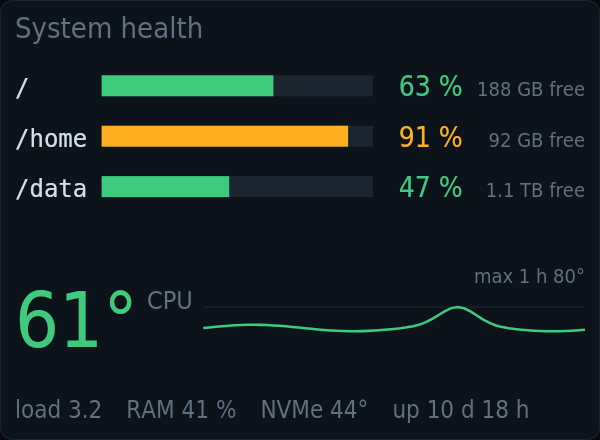
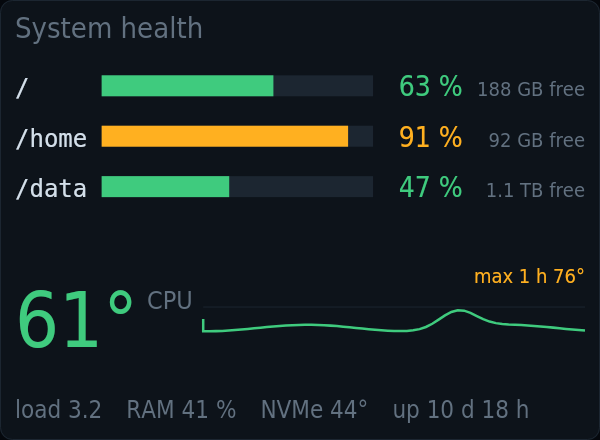
feat: more to configure, following Kiosko's option conventions
system/health: amber and red temperatures (tempWarn/tempAlert), historyMs, disk rows with '+N more' instead of stopping at four; takeOver is the common switch. Durations through ctx.fmt.

Also regenerates the README option tables and screenshots.

Changed region(s): [[0.33, 0.6795, 0.78, 0.7682], [0.78, 0.7091, 0.96, 0.7682], [0.78, 0.5909, 0.96, 0.65]]

diff --git a/src/health.ts b/src/health.ts
@@ -1,15 +1,15 @@
 /**
  * System health: how full the disks are, the CPU temperature (with its last
- * hour as a line, because peaks can't be seen at a glance), load, memory,
- * uptime and failed systemd units. Inspired by MMM-SystemStats; everything
- * comes from the machine itself, no network.
+ * hour, or `historyMs`, as a line, because peaks can't be seen at a glance),
+ * load, memory, uptime and failed systemd units. Inspired by MMM-SystemStats;
+ * everything comes from the machine itself, no network.
  */
 import { execFile } from 'node:child_process';
 import { readFile } from 'node:fs/promises';
 import { availableParallelism, loadavg, platform, uptime } from 'node:os';
 import { promisify } from 'node:util';
-import { defineWidget, t, type Localized } from '@kiosko/sdk';
-import { bytes, readDisk, readHwmon, readMemory, readThermalZone, since, SYSTEM_ROOT } from './sensors.ts';
+import { defineWidget, drawMore, listLayout, listOptions, t, type Localized } from '@kiosko/sdk';
+import { bytes, readDisk, readHwmon, readMemory, readThermalZone, SYSTEM_ROOT } from './sensors.ts';
 
 const run = promisify(execFile);
 
@@ -25,7 +25,7 @@ export interface Health {
   cpu: { temp: number; crit: number | null } | null;
   /** The hottest NVMe drive. */
   nvme: number | null;
-  /** Temperatures of the last hour: [instant, degrees]. */
+  /** Temperatures of the last `historyMs`: [instant, degrees]. */
   history: [number, number][];
   /** 1-minute load average (not divided by cores); null on Windows. */
   load: number | null;
@@ -70,37 +70,48 @@ async function failedUnits(): Promise<string[]> {
 }
 
 export interface Thresholds {
+  /** Disk fill, %: amber from `diskWarn`, red from `diskAlert`. */
   diskWarn: number;
   diskAlert: number;
+  /** CPU temperature, °C: amber from `tempWarn`, red from `tempAlert`. */
   tempWarn: number;
+  tempAlert: number;
 }
 
-/** What crosses its threshold, most serious first. */
-export function warnings(h: Health, th: Thresholds): { key: 'disk' | 'temp' | 'units'; text: Localized }[] {
+/**
+ * What crosses its threshold, most serious first. At `warn` level (what
+ * `onlyWhenWarning` shows the widget for), a disk counts from its amber
+ * level; at `alert` (what keeps the tile), from its red one. The CPU counts
+ * from its red temperature at both: amber is any long build.
+ */
+export function warnings(h: Health, th: Thresholds, level: 'warn' | 'alert' = 'warn'): { key: 'disk' | 'temp' | 'units'; text: Localized }[] {
   const out: { key: 'disk' | 'temp' | 'units'; text: Localized }[] = [];
-  for (const d of h.disks) if (100 - (d.free / d.size) * 100 >= th.diskWarn) out.push({ key: 'disk', text: { en: `${d.mount} full`, es: `${d.mount} lleno` } });
-  if (h.cpu && h.cpu.temp >= th.tempWarn) out.push({ key: 'temp', text: { en: 'CPU hot', es: 'CPU caliente' } });
+  const full = level === 'alert' ? th.diskAlert : th.diskWarn;
+  for (const d of h.disks) if (100 - (d.free / d.size) * 100 >= full) out.push({ key: 'disk', text: { en: `${d.mount} full`, es: `${d.mount} lleno` } });
+  if (h.cpu && h.cpu.temp >= th.tempAlert) out.push({ key: 'temp', text: { en: 'CPU hot', es: 'CPU caliente' } });
   if (h.failed.length) out.push({ key: 'units', text: { en: 'failed units', es: 'unidades caídas' } });
   return out;
 }
 
 const HOUR = 3_600_000;
-/** The last hour of CPU temperatures, kept across fetches. */
+/** The longest `historyMs` a widget may ask for. */
+export const MAX_HISTORY_MS = 4 * HOUR;
+/** CPU temperatures, kept across fetches for the longest history any instance may show. */
 const history: [number, number][] = [];
 
-/** Adds a reading (not more than one every 10 s) and drops what's older than an hour. */
-export function pushHistory(h: [number, number][], now: number, temp: number): [number, number][] {
+/** Adds a reading (not more than one every 10 s) and drops what's older than `keepMs`. */
+export function pushHistory(h: [number, number][], now: number, temp: number, keepMs = MAX_HISTORY_MS): [number, number][] {
   if (!h.length || now - h[h.length - 1]![0] >= 10_000) h.push([now, temp]);
-  while (h.length && h[0]![0] < now - HOUR) h.shift();
+  while (h.length && h[0]![0] < now - keepMs) h.shift();
   return h;
 }
 
 export function demoHealth(now: number): Health {
   const hist: [number, number][] = [];
-  for (let i = 0; i <= 60; i++) {
-    // A calm hour with a build twenty minutes ago.
-    const bump = Math.exp(-(((i - 40) / 4) ** 2)) * 22;
-    hist.push([now - (60 - i) * 60_000, 54 + 4 * Math.sin(i / 5) + bump]);
+  for (let i = 0; i <= 240; i++) {
+    // Calm hours with a build twenty minutes ago (and a shorter one before lunch).
+    const bump = Math.exp(-(((i - 220) / 4) ** 2)) * 22 + Math.exp(-(((i - 90) / 6) ** 2)) * 14;
+    hist.push([now - (240 - i) * 60_000, 54 + 4 * Math.sin(i / 5) + bump]);
   }
   const GB = 1e9;
   return {
@@ -134,13 +145,18 @@ export const health = defineWidget({
   size: { min: { w: 280, h: 140 }, preferred: { w: 600, h: 440 } },
   options: t.object({
     mounts: t.list(t.string({ format: 'path', risk: 'path', placeholder: '/home' }), { label: { en: 'Disks (mount points)', es: 'Discos (puntos de montaje)' }, help: { en: 'Empty = every mounted disk (Linux) or the system disk.', es: 'Vacío = todos los discos montados (Linux) o el del sistema.' } }),
-    diskWarn: t.integer({ default: 90, min: 50, max: 100, unit: '%', label: { en: 'Disk warning at', es: 'Aviso de disco desde' } }),
-    diskAlert: t.integer({ default: 95, min: 50, max: 100, unit: '%', label: { en: 'Disk alert at', es: 'Alerta de disco desde' } }),
-    tempWarn: t.integer({ default: 80, min: 40, max: 110, unit: '°C', label: { en: 'Hot CPU at', es: 'CPU caliente desde' } }),
-    onlyWhenWarning: t.boolean({ label: { en: 'Only when something is wrong', es: 'Sólo si algo va mal' }, help: { en: 'Takes its turn only while a disk or the CPU crosses its threshold, or a unit has failed.', es: 'Sólo entra en el turno si un disco o la CPU pasan de su umbral, o hay una unidad caída.' } }),
+    diskWarn: t.integer({ default: 90, min: 50, max: 100, unit: '%', label: { en: 'Amber disk from', es: 'Disco ámbar desde' } }),
+    diskAlert: t.integer({ default: 95, min: 50, max: 100, unit: '%', label: { en: 'Red disk from', es: 'Disco rojo desde' } }),
+    tempWarn: t.integer({ default: 65, min: 40, max: 110, unit: '°C', label: { en: 'Amber CPU from', es: 'CPU ámbar desde' } }),
+    tempAlert: t.integer({ default: 80, min: 40, max: 110, unit: '°C', label: { en: 'Red CPU from', es: 'CPU roja desde' } }),
+    historyMs: t.duration({ default: HOUR, min: 5 * 60_000, max: MAX_HISTORY_MS, label: { en: 'Temperature history', es: 'Historial de temperatura' }, help: { en: 'How far back the CPU temperature line goes.', es: 'Hasta dónde llega hacia atrás la línea de temperatura de la CPU.' } }),
+    onlyWhenWarning: t.boolean({ label: { en: 'Only when something is wrong', es: 'Sólo si algo va mal' }, help: { en: 'Takes its turn only while a disk is amber or red, the CPU red, or a unit has failed.', es: 'Sólo entra en el turno mientras un disco esté en ámbar o rojo, la CPU en rojo o haya una unidad caída.' } }),
     systemd: t.boolean({ default: true, advanced: true, label: { en: 'Check failed systemd units', es: 'Mirar las unidades de systemd caídas' } }),
+    rows: { ...listOptions().rows, label: { en: 'Disk rows', es: 'Filas de discos' } },
   }),
   intervalMs: 30_000,
+  // Keeping the tile is opt-in: a full disk stays full for days.
+  takeOver: false,
   async fetch({ options, now }): Promise<Health> {
     let mounts = options.mounts.filter((m) => m.trim());
     if (!mounts.length && platform() === 'linux') {
@@ -161,12 +177,13 @@ export const health = defineWidget({
     const zone = temps.cpu ? undefined : readThermalZone();
     const cpu = temps.cpu ?? (zone !== undefined ? { temp: zone, crit: null } : null);
     if (cpu) pushHistory(history, now, cpu.temp);
+    const from = now - options.historyMs;
     const mem = await readMemory();
     return {
       disks,
       cpu,
       nvme: temps.nvme,
-      history: cpu ? [...history] : [],
+      history: cpu ? history.filter(([at]) => at >= from) : [],
       load: platform() === 'win32' ? null : loadavg()[0]!,
       cores: availableParallelism(),
       memUsed: mem.used,
@@ -176,8 +193,9 @@ export const health = defineWidget({
     };
   },
   visible: ({ options, data }) => Boolean(data) && (!options.onlyWhenWarning || warnings(data!, options).length > 0),
-  urgent: ({ options, data }) => Boolean(data && options.onlyWhenWarning && warnings(data, { ...options, diskWarn: options.diskAlert }).length > 0),
-  render(g, { options, data, now, box, theme, kit, locale, t: tr }) {
+  urgent: ({ options, data }) => Boolean(data && warnings(data, options, 'alert').length > 0),
+  render(g, ctx) {
+    const { options, data, now, box, theme, kit, locale, t: tr, fmt } = ctx;
     if (!data) return;
     const { colors, fonts } = theme;
     const level = (pct: number) => (pct >= options.diskAlert ? colors.alert : pct >= options.diskWarn ? colors.warn : colors.ok);
@@ -193,7 +211,7 @@ export const health = defineWidget({
       ...(data.load !== null ? [[`${tr({ en: 'load', es: 'carga' })} ${num(data.load)}`, loadCol] as [string, string]] : []),
       [`RAM ${Math.round((data.memUsed / data.memTotal) * 100)} %`, colors.inkDim],
       ...(data.nvme !== null ? [[`NVMe ${Math.round(data.nvme)}°`, colors.inkDim] as [string, string]] : []),
-      [`${tr({ en: 'up', es: 'encendido' })} ${since(data.uptime)}`, colors.inkDim],
+      [`${tr({ en: 'up', es: 'encendido' })} ${fmt.duration(data.uptime * 1000)}`, colors.inkDim],
     ];
     // What doesn't fit is dropped, from the end (the least important last).
     let x = box.x;
@@ -225,18 +243,18 @@ export const health = defineWidget({
       }
     }
     // Disk rows, sized first so the temperature can sit closer to them on tall tiles.
-    const nDisks = Math.min(data.disks.length, 4);
-    const rowH = nDisks ? Math.min(50 * Math.max(k, 0.75), diskArea.h / nDisks) : 0;
-    const rows = nDisks ? Math.max(1, Math.min(data.disks.length, Math.floor(diskArea.h / rowH + 0.1))) : 0;
-    if (tempArea && !wide) {
+    const plan = listLayout(diskArea, data.disks.length, options, { sizes: { 'one-line': { min: 16, max: 50 * Math.max(k, 0.75) } } });
+    const rowH = plan.rowH;
+    if (tempArea && !wide && plan.rows.length) {
       // Split the slack between the disks and the temperature evenly.
-      const slack = diskArea.h - rows * rowH;
+      const slack = diskArea.h - plan.rows.length * rowH - (plan.more?.h ?? 0);
       if (slack > 0) tempArea = { ...tempArea, y: tempArea.y - slack / 2 };
     }
     if (data.cpu && tempArea) {
       const tA = tempArea;
       const temp = data.cpu.temp;
-      const col = temp >= options.tempWarn ? colors.alert : temp >= options.tempWarn - 15 ? colors.warn : colors.ok;
+      const tempCol = (v: number) => (v >= options.tempAlert ? colors.alert : v >= options.tempWarn ? colors.warn : null);
+      const col = tempCol(temp) ?? colors.ok;
       const big = Math.round(Math.min(tA.h * 0.82, 76 * k * (wide ? 1.2 : 1)));
       const ty = wide ? tA.y + (tA.h + big * 0.72) / 2 : tA.y + tA.h - big * 0.12;
       const tw = kit.drawTracked(g, `${Math.round(temp)}°`, tA.x, ty, { size: big, family: fonts.sans, color: col });
@@ -249,7 +267,8 @@ export const health = defineWidget({
         g.strokeStyle = colors.surfaceEdge;
         g.lineWidth = 1;
         g.beginPath();
-        const wy = sy + sh - ((options.tempWarn - lo) / (hi - lo)) * sh;
+        // The red line, faint.
+        const wy = sy + sh - ((options.tempAlert - lo) / (hi - lo)) * sh;
         g.moveTo(sx, wy);
         g.lineTo(sx + sw, wy);
         g.stroke();
@@ -257,7 +276,7 @@ export const health = defineWidget({
         g.lineWidth = Math.max(1.5, 2.5 * k);
         g.beginPath();
         hist.forEach(([at, v], i) => {
-          const px = sx + sw - Math.min(1, (now - at) / HOUR) * sw;
+          const px = sx + sw - Math.min(1, (now - at) / options.historyMs) * sw;
           const py = sy + sh - ((Math.max(lo, v) - lo) / (hi - lo)) * sh;
           if (i) g.lineTo(px, py);
           else g.moveTo(px, py);
@@ -265,19 +284,19 @@ export const health = defineWidget({
         g.stroke();
         const max = Math.max(...hist.map(([, v]) => v));
         const ms = Math.round(Math.max(10, 20 * k));
-        kit.drawTracked(g, `${tr({ en: 'max 1 h', es: 'máx. 1 h' })} ${Math.round(max)}°`, sx + sw, sy - ms * 0.4, { size: ms, family: fonts.sans, color: max >= options.tempWarn ? colors.alert : colors.inkDim, align: 'right' });
+        kit.drawTracked(g, `${tr({ en: 'max', es: 'máx.' })} ${fmt.duration(options.historyMs, { round: 'nearest', compact: true })} ${Math.round(max)}°`, sx + sw, sy - ms * 0.4, { size: ms, family: fonts.sans, color: tempCol(max) ?? colors.inkDim, align: 'right' });
       }
     }
 
-    // Disks: name, bar, percentage and what's left.
-    if (!rows) return;
+    // Disks: name, bar, percentage and what's left; "+N more" for those that don't fit.
+    if (!plan.rows.length) return drawMore(g, ctx, plan);
     const dA = diskArea;
     const ds = Math.round(Math.max(11, Math.min(24, rowH * 0.48)));
     const mono = { size: ds, family: fonts.mono };
     const pctO = { size: Math.round(ds * 1.15), family: fonts.sans };
     const freeO = { size: Math.round(ds * 0.85), family: fonts.sans };
     const freeWord = tr({ en: 'free', es: 'libres' });
-    const shown = data.disks.slice(0, rows);
+    const shown = data.disks.slice(0, plan.rows.length);
     const nameW = Math.min(dA.w * 0.3, Math.max(...shown.map((d) => kit.measureTracked(g, d.mount, mono))) + ds * 0.6);
     const pctW = kit.measureTracked(g, '100 %', pctO) + ds * 0.4;
     const freeTexts = shown.map((d) => `${bytes(d.free, locale)} ${freeWord}`);
@@ -285,7 +304,7 @@ export const health = defineWidget({
     const withFree = dA.w - nameW - pctW - freeW >= dA.w * 0.25;
     const barX = dA.x + nameW, barW = dA.w - nameW - pctW - (withFree ? freeW : 0);
     shown.forEach((d, i) => {
-      const y = dA.y + i * rowH + rowH * 0.72;
+      const y = plan.rows[i]!.y + rowH * 0.72;
       const pct = 100 - (d.free / d.size) * 100;
       const col = level(pct);
       kit.drawTracked(g, kit.truncate(g, d.mount, nameW - ds * 0.5, mono), dA.x, y, { ...mono, color: colors.ink });
@@ -297,6 +316,7 @@ export const health = defineWidget({
       kit.drawTracked(g, `${Math.round(pct)} %`, barX + barW + pctW, y, { ...pctO, color: col, align: 'right' });
       if (withFree) kit.drawTracked(g, freeTexts[i]!, dA.x + dA.w, y, { ...freeO, color: colors.inkDim, align: 'right' });
     });
+    drawMore(g, ctx, plan);
   },
   demo: ({ now }) => ({ data: demoHealth(now) }),
 });

diff --git a/src/system.test.ts b/src/system.test.ts
@@ -3,8 +3,9 @@ import assert from 'node:assert/strict';
 import { mkdirSync, mkdtempSync, writeFileSync } from 'node:fs';
 import { tmpdir } from 'node:os';
 import { join } from 'node:path';
+import { createBaseContext } from '@kiosko/sdk';
 import { demoHealth, diskMounts, pushHistory, warnings } from './health.ts';
-import { bytes, coreUsage, memAvailable, parseProcStat, readDisk, readHwmon, readThermalZone, sampleFromCpus, since } from './sensors.ts';
+import { bytes, coreUsage, memAvailable, parseProcStat, readDisk, readHwmon, readThermalZone, sampleFromCpus } from './sensors.ts';
 import { readVitals, resetCpuSampling } from './vitals.ts';
 import plugin from './index.ts';
 
@@ -56,9 +57,8 @@ test('memory, sizes and durations', () => {
   assert.equal(bytes(10_882_990_080), '11 GB');
   assert.equal(bytes(1_200_000_000_000, 'es'), '1,2 TB');
   assert.equal(bytes(1_200_000_000_000, 'en'), '1.2 TB');
-  assert.equal(since(929804), '10 d 18 h');
-  assert.equal(since(5 * 3600 + 100), '5 h');
-  assert.equal(since(700), '11 min');
+  const fmt = createBaseContext({ now: 0, locale: 'es' }).fmt;
+  assert.equal(fmt.duration(929804 * 1000), '10 d 18 h', 'uptime');
 });
 
 test('health: disk mounts of /proc/mounts, temperature history and warnings', () => {
@@ -78,14 +78,55 @@ test('health: disk mounts of /proc/mounts, temperature history and warnings', ()
   pushHistory(h, 0, 50);
   pushHistory(h, 5_000, 51);
   assert.equal(h.length, 1, 'not more than one reading every 10 s');
-  pushHistory(h, 3_700_000, 60);
-  assert.deepEqual(h, [[3_700_000, 60]], 'older than an hour is dropped');
+  pushHistory(h, 3_700_000, 60, 3_600_000);
+  assert.deepEqual(h, [[3_700_000, 60]], 'older than what is kept is dropped');
+  pushHistory(h, 3_700_000 + 2 * 3_600_000, 61);
+  assert.equal(h.length, 2, 'four hours kept by default, for any historyMs');
 
-  const th = { diskWarn: 90, diskAlert: 95, tempWarn: 80 };
-  const data = { ...demoHealth(0), disks: [{ mount: '/home', size: 100, free: 5 }, { mount: '/', size: 100, free: 50 }], cpu: { temp: 92, crit: 100 } };
+  const th = { diskWarn: 90, diskAlert: 95, tempWarn: 65, tempAlert: 80 };
+  const data = { ...demoHealth(0), disks: [{ mount: '/home', size: 100, free: 7 }, { mount: '/', size: 100, free: 50 }], cpu: { temp: 92, crit: 100 } };
   assert.deepEqual(warnings(data, th).map((w) => w.key), ['disk', 'temp']);
-  assert.deepEqual(warnings({ ...data, disks: [], cpu: { temp: 50, crit: null } }, th), []);
-  assert.deepEqual(warnings({ ...data, disks: [], cpu: null, failed: ['backup'] }, th).map((w) => w.key), ['units']);
+  assert.deepEqual(warnings(data, th, 'alert').map((w) => w.key), ['temp'], 'a disk at 93 % is amber, not red');
+  assert.deepEqual(warnings({ ...data, disks: [], cpu: { temp: 70, crit: null } }, th), [], 'an amber CPU is any long build');
+  assert.deepEqual(warnings({ ...data, disks: [], cpu: null, failed: ['backup'] }, th, 'alert').map((w) => w.key), ['units']);
+});
+
+test('health: keeps the tile only on red, and only if the user turns it on', () => {
+  const w = plugin.widgets!.find((x) => x.id === 'health')!;
+  assert.equal(w.takeOver, false);
+  const options = { ...w.options!.default, onlyWhenWarning: false };
+  const st = (data: unknown) => ({ options, data, sources: {}, now: 0, working: true }) as never;
+  const calm = demoHealth(0);
+  assert.equal(w.urgent!(st(calm)), false);
+  assert.equal(w.urgent!(st({ ...calm, disks: [{ mount: '/', size: 100, free: 3 }] })), true, 'no longer tied to onlyWhenWarning');
+  assert.equal('takeOver' in (w.options as { props: object }).props, false);
+});
+
+test('health: disks as a list with "+N more"; temperature amber and red', async () => {
+  const { createCanvas } = await import('@napi-rs/canvas');
+  const { THEMES } = await import('@kiosko/sdk');
+  const kit = await import('@loksly/lcd-canvas-kit');
+  const w = plugin.widgets!.find((x) => x.id === 'health')!;
+  const theme = THEMES[0]!;
+  const GB = 1e9;
+  const disks = ['/', '/home', '/data', '/backup', '/media/a', '/media/b'].map((mount) => ({ mount, size: 1000 * GB, free: 400 * GB }));
+  const paint = (options: Record<string, unknown>, data: object, h = 440) => {
+    const texts: { text: string; color?: string }[] = [];
+    const spy = { ...kit, drawTracked: (g: never, text: string, x: number, y: number, o: { color?: string }) => (texts.push({ text, ...(o?.color ? { color: o.color } : {}) }), (kit.drawTracked as (...a: unknown[]) => number)(g, text, x, y, o)) };
+    const g = createCanvas(600, h).getContext('2d');
+    w.render(g as never, { ...createBaseContext({ now: 0, locale: 'en' }), options: { ...w.options!.default, ...options }, data, sources: {}, working: true, box: { x: 0, y: 0, w: 600, h }, theme, fonts: theme.fonts, kit: spy, canvas: { createCanvas }, preview: true } as never);
+    return texts;
+  };
+  const many = { ...demoHealth(0), disks };
+  assert.ok(!paint({}, many).some((x) => x.text.startsWith('+')), 'six disks fit a tall tile (no longer cut at four)');
+  assert.ok(paint({ rows: 3 }, many).some((x) => x.text === '+3 more'), 'three rows: three disks and "+3 more"');
+  assert.ok(paint({}, many, 100).some((x) => /^\+\d+ more$/.test(x.text)), 'a short tile says how many are left out');
+  const big = (temp: number) => paint({ tempWarn: 65, tempAlert: 80 }, { ...demoHealth(0), cpu: { temp, crit: 100 } }).find((x) => x.text === `${temp}°`)!.color;
+  assert.equal(big(60), theme.colors.ok);
+  assert.equal(big(70), theme.colors.warn);
+  assert.equal(big(85), theme.colors.alert);
+  assert.ok(paint({ historyMs: 5_400_000 }, demoHealth(0)).some((x) => x.text.startsWith('max 1 h 30')));
+  assert.ok(paint({ historyMs: 3_600_000 }, demoHealth(0)).some((x) => x.text.startsWith('max 1 h 7')), 'a whole hour, without " 00"');
 });
 
 test('vitals: the first read waits for a second sample; a missing disk path is fine', async () => {

diff --git a/src/sensors.ts b/src/sensors.ts
@@ -195,10 +195,3 @@ export function bytes(n: number, locale = 'en'): string {
   const v = n < 10 && i > 0 ? n.toFixed(1) : String(Math.round(n));
   return `${/^es(?:$|[-_])/i.test(locale) ? v.replace('.', ',') : v} ${units[i]}`;
 }
-
-/** "3 d 4 h", "5 h", "12 min". */
-export function since(seconds: number): string {
-  const d = Math.floor(seconds / 86400), h = Math.floor((seconds % 86400) / 3600);
-  if (d > 0) return h ? `${d} d ${h} h` : `${d} d`;
-  return h > 0 ? `${h} h` : `${Math.floor(seconds / 60)} min`;
-}

diff --git a/README.md b/README.md
@@ -31,11 +31,14 @@ Disk usage, CPU temperature over the last hour, load, memory, uptime and failed 
 | Option | Type | Default | |
 |---|---|---|---|
 | `mounts` | list | `[]` | Disks (mount points). Empty = every mounted disk (Linux) or the system disk. |
-| `diskWarn` | number | `90` | Disk warning at |
-| `diskAlert` | number | `95` | Disk alert at |
-| `tempWarn` | number | `80` | Hot CPU at |
-| `onlyWhenWarning` | boolean | `false` | Only when something is wrong. Takes its turn only while a disk or the CPU crosses its threshold, or a unit has failed. |
+| `diskWarn` | number | `90` | Amber disk from |
+| `diskAlert` | number | `95` | Red disk from |
+| `tempWarn` | number | `65` | Amber CPU from |
+| `tempAlert` | number | `80` | Red CPU from |
+| `historyMs` | duration (ms) | `3600000` | Temperature history. How far back the CPU temperature line goes. |
+| `onlyWhenWarning` | boolean | `false` | Only when something is wrong. Takes its turn only while a disk is amber or red, the CPU red, or a unit has failed. |
 | `systemd` | boolean | `true` | Check failed systemd units |
+| `rows` | number | `0` | Disk rows. 0 = as many as fit. A number shows that many, in rows of a readable size (fewer when the tile is too small for them); the rest are counted in "+N more". |
 
 ## Data sources
 
